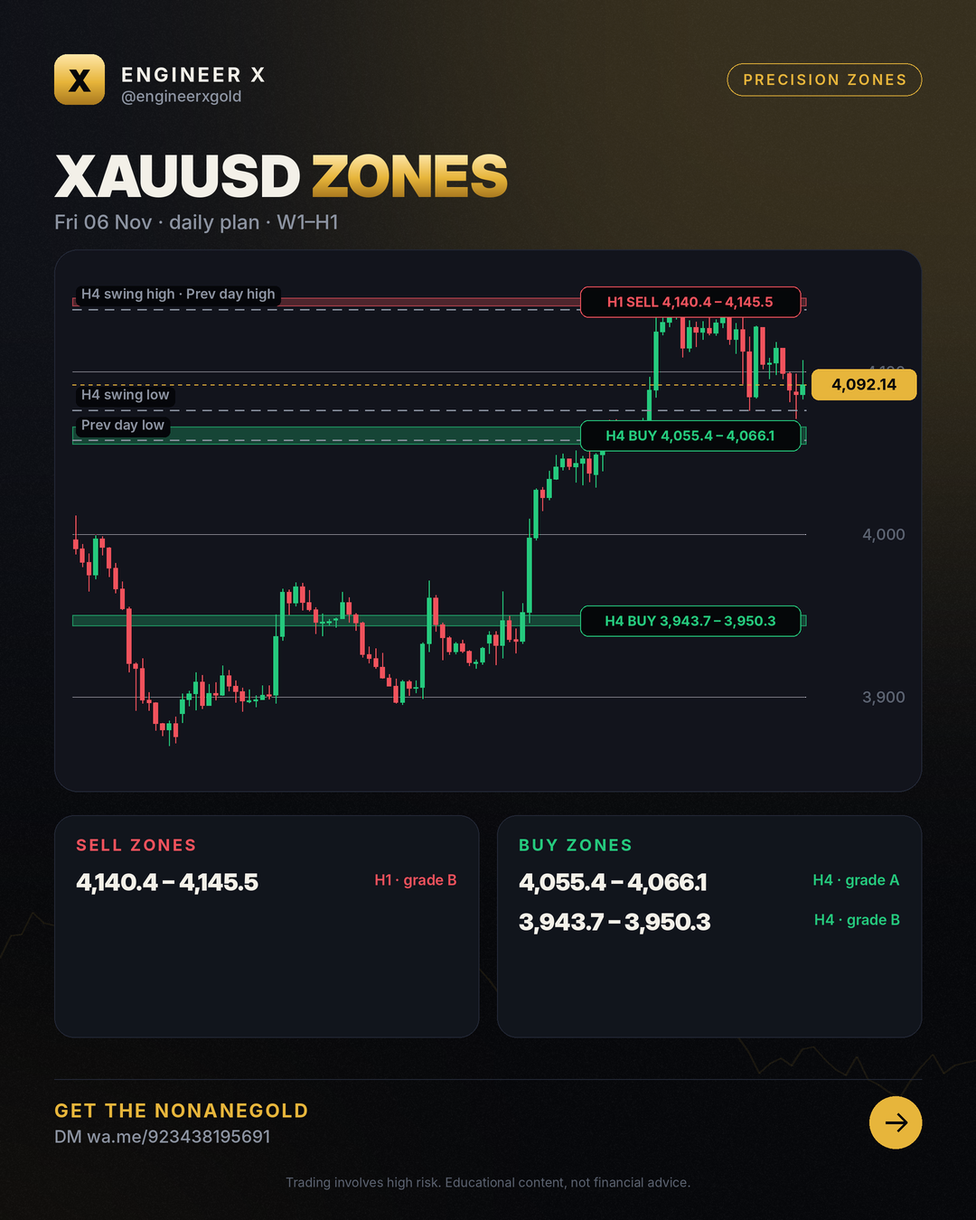
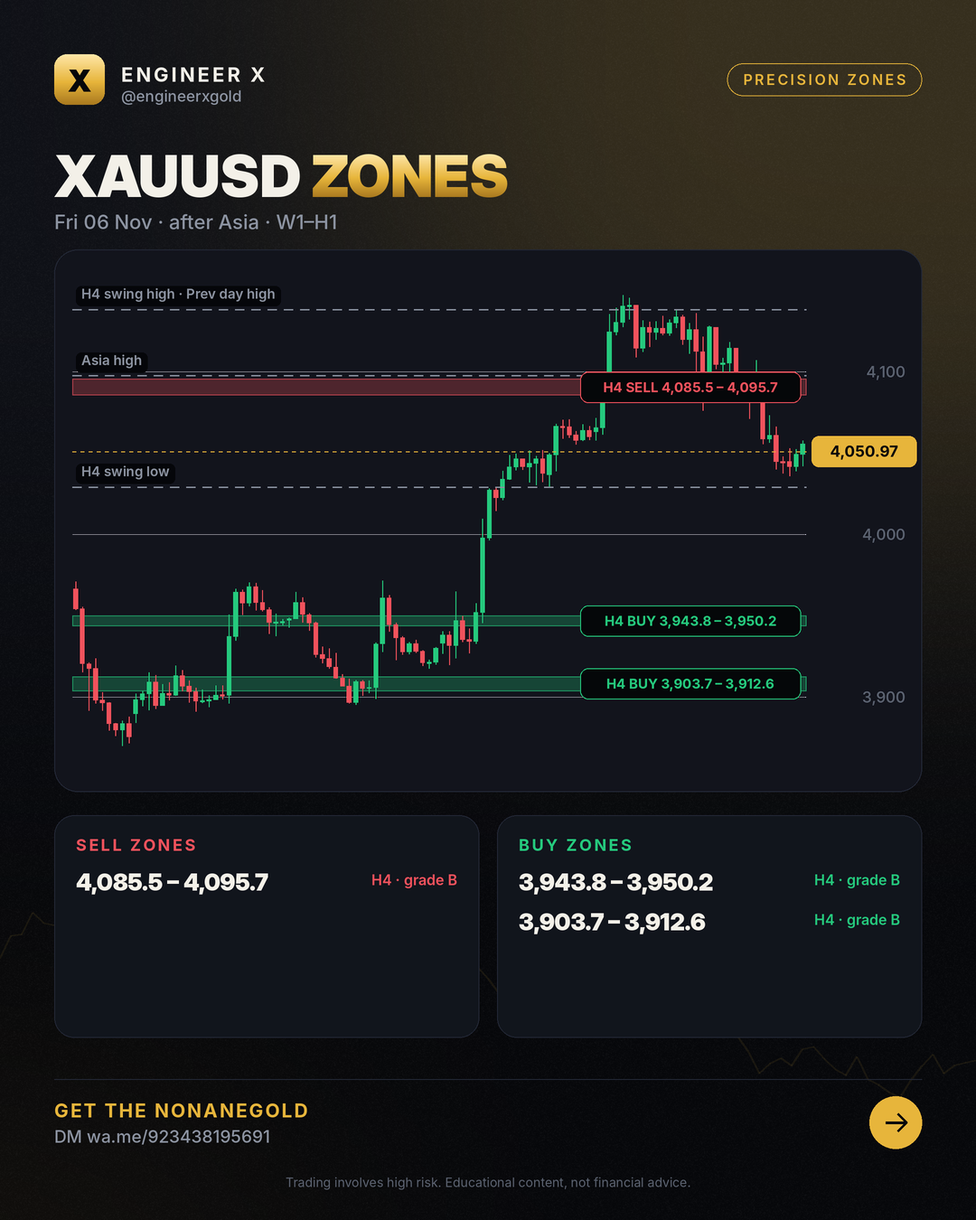
zones 2026-11-06 Fri 06 Nov · after Asia · W1–H1

diff --git a/zones/index.html b/zones/index.html
@@ -4,7 +4,7 @@
 <meta charset="utf-8">
 <meta name="viewport" content="width=device-width,initial-scale=1">
 <title>XAUUSD Zones Today – Buy &amp; Sell Zones (H4, H1) | Engineer X</title>
-<meta name="description" content="XAUUSD buy and sell zones for 2026-11-06: tested W1, D1, H4 and H1 zones with invalidation levels, updated after the Asian, London and New York sessions. Price 4,092.14.">
+<meta name="description" content="XAUUSD buy and sell zones for 2026-11-06: tested W1, D1, H4 and H1 zones with invalidation levels, updated after the Asian, London and New York sessions. Price 4,050.97.">
 <meta name="robots" content="index,follow,max-image-preview:large,max-snippet:-1,max-video-preview:-1">
 <meta name="author" content="Engr. M Ahmad Mehmood">
 <link rel="canonical" href="https://engineerxgold.github.io/zones/">
@@ -12,7 +12,7 @@
 <link rel="apple-touch-icon" href="../img/logo.png">
 <meta property="og:site_name" content="Engineer X">
 <meta property="og:title" content="XAUUSD Zones Today – Buy &amp; Sell Zones (H4, H1) | Engineer X">
-<meta property="og:description" content="XAUUSD buy and sell zones for 2026-11-06: tested W1, D1, H4 and H1 zones with invalidation levels, updated after the Asian, London and New York sessions. Price 4,092.14.">
+<meta property="og:description" content="XAUUSD buy and sell zones for 2026-11-06: tested W1, D1, H4 and H1 zones with invalidation levels, updated after the Asian, London and New York sessions. Price 4,050.97.">
 <meta property="og:type" content="website">
 <meta property="og:url" content="https://engineerxgold.github.io/zones/">
 <meta property="og:image" content="https://engineerxgold.github.io/zones/img/2026-11-06.png">
@@ -22,7 +22,7 @@
 <meta property="og:locale" content="en_US">
 <meta name="twitter:card" content="summary_large_image">
 <meta name="twitter:title" content="XAUUSD Zones Today – Buy &amp; Sell Zones (H4, H1) | Engineer X">
-<meta name="twitter:description" content="XAUUSD buy and sell zones for 2026-11-06: tested W1, D1, H4 and H1 zones with invalidation levels, updated after the Asian, London and New York sessions. Price 4,092.14.">
+<meta name="twitter:description" content="XAUUSD buy and sell zones for 2026-11-06: tested W1, D1, H4 and H1 zones with invalidation levels, updated after the Asian, London and New York sessions. Price 4,050.97.">
 <meta name="twitter:image" content="https://engineerxgold.github.io/zones/img/2026-11-06.png">
 <meta name="twitter:image:alt" content="XAUUSD Zones Today – Buy &amp; Sell Zones (H4, H1) | Engineer X">
 
@@ -101,7 +101,7 @@ footer .fl a{color:var(--muted);margin-right:16px}
 <div class="wrap">
 <nav><a class="logo" href="../"><b>X</b>Engineer X</a>
 <div class="links"><a href="../zones/">Daily Zones</a><a href="../blog/">Learn</a><a href="../ea/">Gold EA</a><a href="../about/">About</a><a class="cta" href="https://wa.me/923438195691">Get the EA</a></div></nav>
-<section class="hero"><span class="chip">Updated Fri 06 Nov · daily plan · W1–H1</span><h1>XAUUSD <span class="gold">precision zones</span></h1><p>XAUUSD buy and sell zones for 2026-11-06: tested W1, D1, H4 and H1 zones with invalidation levels, updated after the Asian, London and New York sessions. Price 4,092.14.</p></section><img src="img/2026-11-06.png" alt="Latest XAUUSD zone map" width="1080" height="1350"><section><h2>Current zones</h2><div style="overflow-x:auto"><table style="width:100%;border-collapse:collapse;font-size:15px"><tr><th align=left>Zone</th><th align=left>Price band</th><th>Grade</th><th align=left>Invalid</th><th align=left>Why</th></tr><tr><td>H1 sell</td><td><b>4,140.41 – 4,145.46</b></td><td>B</td><td>above 4,147.69</td><td>H1 supply: 1 small base candle (Wed 04 Nov 23:00 NY), then a strong move down (1.4x ATR). Untouched since. Wrong if price trades above 4147.69.; MSNR levels ins</td></tr><tr><td>H4 buy</td><td><b>4,055.41 – 4,066.11</b></td><td>A</td><td>below 4,053.18</td><td>H4 demand: 1 small base candle (Wed 04 Nov 13:00 NY), then a strong move up (1.6x ATR). Untouched since. Wrong if price trades below 4053.18.; MSNR levels insid</td></tr><tr><td>H4 buy</td><td><b>3,943.66 – 3,950.34</b></td><td>B</td><td>below 3,941.43</td><td>MSNR support level (fresh): 4H GAP 3947.00. Wrong if price trades below 3941.43.; Confluence score 2: MSNR + ICT</td></tr></table></div></section><section><h2>Honest scorecard</h2><div class="grid"><div class="card"><div class="n">251</div><p>zones published (30 days)</p></div><div class="card"><div class="n">135</div><p>held (moved 1 hourly ATR away)</p></div><div class="card"><div class="n">29</div><p>broke (traded beyond the invalidation)</p></div><div class="card"><div class="n">82%</div><p>hold rate of decided zones</p></div></div></section><div class="ctabox"><h3>🤖 Trade the zones with the NonaneGold</h3><p>Free signals group access + setup help Message us and we will help you set it up.</p><div class="btns"><a class="btn gold" href="https://wa.me/923438195691">Get the EA on Telegram</a><a class="btn ghost" href="../ea/">About the EA</a></div></div><section><h2>Archive</h2><div class="grid posts"><a class="card" href="2026-11-06/"><span class="date">2026-11-06</span><h3>XAUUSD zones 2026-11-06</h3></a><a class="card" href="2026-11-05/"><span class="date">2026-11-05</span><h3>XAUUSD zones 2026-11-05</h3></a><a class="card" href="2026-11-04/"><span class="date">2026-11-04</span><h3>XAUUSD zones 2026-11-04</h3></a><a class="card" href="2026-11-03/"><span class="date">2026-11-03</span><h3>XAUUSD zones 2026-11-03</h3></a><a class="card" href="2026-11-02/"><span class="date">2026-11-02</span><h3>XAUUSD zones 2026-11-02</h3></a><a class="card" href="2026-10-30/"><span class="date">2026-10-30</span><h3>XAUUSD zones 2026-10-30</h3></a><a class="card" href="2026-10-29/"><span class="date">2026-10-29</span><h3>XAUUSD zones 2026-10-29</h3></a><a class="card" href="2026-10-28/"><span class="date">2026-10-28</span><h3>XAUUSD zones 2026-10-28</h3></a><a class="card" href="2026-10-27/"><span class="date">2026-10-27</span><h3>XAUUSD zones 2026-10-27</h3></a><a class="card" href="2026-10-26/"><span class="date">2026-10-26</span><h3>XAUUSD zones 2026-10-26</h3></a><a class="card" href="2026-10-23/"><span class="date">2026-10-23</span><h3>XAUUSD zones 2026-10-23</h3></a><a class="card" href="2026-10-22/"><span class="date">2026-10-22</span><h3>XAUUSD zones 2026-10-22</h3></a><a class="card" href="2026-10-21/"><span class="date">2026-10-21</span><h3>XAUUSD zones 2026-10-21</h3></a><a class="card" href="2026-10-20/"><span class="date">2026-10-20</span><h3>XAUUSD zones 2026-10-20</h3></a><a class="card" href="2026-10-19/"><span class="date">2026-10-19</span><h3>XAUUSD zones 2026-10-19</h3></a><a class="card" href="2026-10-16/"><span class="date">2026-10-16</span><h3>XAUUSD zones 2026-10-16</h3></a><a class="card" href="2026-10-15/"><span class="date">2026-10-15</span><h3>XAUUSD zones 2026-10-15</h3></a><a class="card" href="2026-10-14/"><span class="date">2026-10-14</span><h3>XAUUSD zones 2026-10-14</h3></a><a class="card" href="2026-10-13/"><span class="date">2026-10-13</span><h3>XAUUSD zones 2026-10-13</h3></a></div></section>
+<section class="hero"><span class="chip">Updated Fri 06 Nov · after Asia · W1–H1</span><h1>XAUUSD <span class="gold">precision zones</span></h1><p>XAUUSD buy and sell zones for 2026-11-06: tested W1, D1, H4 and H1 zones with invalidation levels, updated after the Asian, London and New York sessions. Price 4,050.97.</p></section><img src="img/2026-11-06.png" alt="Latest XAUUSD zone map" width="1080" height="1350"><section><h2>Current zones</h2><div style="overflow-x:auto"><table style="width:100%;border-collapse:collapse;font-size:15px"><tr><th align=left>Zone</th><th align=left>Price band</th><th>Grade</th><th align=left>Invalid</th><th align=left>Why</th></tr><tr><td>H4 sell</td><td><b>4,085.52 – 4,095.70</b></td><td>B</td><td>above 4,097.80</td><td>MSNR resistance levels (fresh): 4H GAP 4088.67, 1H A 4092.14, 30m GAP 4092.14, 15m A 4092.55. Wrong if price trades above 4097.80.; Confluence score 3: MSNR + I</td></tr><tr><td>H4 buy</td><td><b>3,943.85 – 3,950.15</b></td><td>B</td><td>below 3,941.75</td><td>MSNR support level (fresh): 4H GAP 3947.00. Wrong if price trades below 3941.75.; Confluence score 2: MSNR + ICT</td></tr><tr><td>H4 buy</td><td><b>3,903.71 – 3,912.64</b></td><td>B</td><td>below 3,901.61</td><td>MSNR support levels (fresh): 4H V 3909.49, 15m OCL 3906.86. Wrong if price trades below 3901.61.; Confluence score 2: MSNR + SMC</td></tr></table></div></section><section><h2>Honest scorecard</h2><div class="grid"><div class="card"><div class="n">253</div><p>zones published (30 days)</p></div><div class="card"><div class="n">139</div><p>held (moved 1 hourly ATR away)</p></div><div class="card"><div class="n">29</div><p>broke (traded beyond the invalidation)</p></div><div class="card"><div class="n">83%</div><p>hold rate of decided zones</p></div></div></section><div class="ctabox"><h3>🤖 Trade the zones with the NonaneGold</h3><p>Free signals group access + setup help Message us and we will help you set it up.</p><div class="btns"><a class="btn gold" href="https://wa.me/923438195691">Get the EA on Telegram</a><a class="btn ghost" href="../ea/">About the EA</a></div></div><section><h2>Archive</h2><div class="grid posts"><a class="card" href="2026-11-06/"><span class="date">2026-11-06</span><h3>XAUUSD zones 2026-11-06</h3></a><a class="card" href="2026-11-05/"><span class="date">2026-11-05</span><h3>XAUUSD zones 2026-11-05</h3></a><a class="card" href="2026-11-04/"><span class="date">2026-11-04</span><h3>XAUUSD zones 2026-11-04</h3></a><a class="card" href="2026-11-03/"><span class="date">2026-11-03</span><h3>XAUUSD zones 2026-11-03</h3></a><a class="card" href="2026-11-02/"><span class="date">2026-11-02</span><h3>XAUUSD zones 2026-11-02</h3></a><a class="card" href="2026-10-30/"><span class="date">2026-10-30</span><h3>XAUUSD zones 2026-10-30</h3></a><a class="card" href="2026-10-29/"><span class="date">2026-10-29</span><h3>XAUUSD zones 2026-10-29</h3></a><a class="card" href="2026-10-28/"><span class="date">2026-10-28</span><h3>XAUUSD zones 2026-10-28</h3></a><a class="card" href="2026-10-27/"><span class="date">2026-10-27</span><h3>XAUUSD zones 2026-10-27</h3></a><a class="card" href="2026-10-26/"><span class="date">2026-10-26</span><h3>XAUUSD zones 2026-10-26</h3></a><a class="card" href="2026-10-23/"><span class="date">2026-10-23</span><h3>XAUUSD zones 2026-10-23</h3></a><a class="card" href="2026-10-22/"><span class="date">2026-10-22</span><h3>XAUUSD zones 2026-10-22</h3></a><a class="card" href="2026-10-21/"><span class="date">2026-10-21</span><h3>XAUUSD zones 2026-10-21</h3></a><a class="card" href="2026-10-20/"><span class="date">2026-10-20</span><h3>XAUUSD zones 2026-10-20</h3></a><a class="card" href="2026-10-19/"><span class="date">2026-10-19</span><h3>XAUUSD zones 2026-10-19</h3></a><a class="card" href="2026-10-16/"><span class="date">2026-10-16</span><h3>XAUUSD zones 2026-10-16</h3></a><a class="card" href="2026-10-15/"><span class="date">2026-10-15</span><h3>XAUUSD zones 2026-10-15</h3></a><a class="card" href="2026-10-14/"><span class="date">2026-10-14</span><h3>XAUUSD zones 2026-10-14</h3></a><a class="card" href="2026-10-13/"><span class="date">2026-10-13</span><h3>XAUUSD zones 2026-10-13</h3></a></div></section>
 <footer>
 <div class="warn"><b>Risk warning:</b> Trading gold, forex and CFDs carries a high risk of losing money and is not suitable for everyone. Past results do not guarantee future results. Everything on this site is educational and not financial advice. We are an introducing partner of our broker and may earn a commission on accounts opened through our link.</div>
 <p class="fl" style="margin-top:18px"><a href="../about/">About &amp; methodology</a><a href="../privacy.html">Privacy</a><a href="../terms.html">Terms &amp; risk disclosure</a><a href="../feed.xml">RSS</a><a href="https://t.me/engineerxgold">Telegram</a></p>

diff --git a/zones/2026-11-06/index.html b/zones/2026-11-06/index.html
@@ -4,7 +4,7 @@
 <meta charset="utf-8">
 <meta name="viewport" content="width=device-width,initial-scale=1">
 <title>Gold Forecast – 06 Nov 2026 (W1–H1)</title>
-<meta name="description" content="XAUUSD buy and sell zones for 2026-11-06: tested W1, D1, H4 and H1 zones with invalidation levels, updated after the Asian, London and New York sessions. Price 4,092.14.">
+<meta name="description" content="XAUUSD buy and sell zones for 2026-11-06: tested W1, D1, H4 and H1 zones with invalidation levels, updated after the Asian, London and New York sessions. Price 4,050.97.">
 <meta name="robots" content="index,follow,max-image-preview:large,max-snippet:-1,max-video-preview:-1">
 <meta name="author" content="Engr. M Ahmad Mehmood">
 <link rel="canonical" href="https://engineerxgold.github.io/zones/2026-11-06/">
@@ -12,7 +12,7 @@
 <link rel="apple-touch-icon" href="../../img/logo.png">
 <meta property="og:site_name" content="Engineer X">
 <meta property="og:title" content="Gold Forecast – 06 Nov 2026 (W1–H1)">
-<meta property="og:description" content="XAUUSD buy and sell zones for 2026-11-06: tested W1, D1, H4 and H1 zones with invalidation levels, updated after the Asian, London and New York sessions. Price 4,092.14.">
+<meta property="og:description" content="XAUUSD buy and sell zones for 2026-11-06: tested W1, D1, H4 and H1 zones with invalidation levels, updated after the Asian, London and New York sessions. Price 4,050.97.">
 <meta property="og:type" content="article">
 <meta property="og:url" content="https://engineerxgold.github.io/zones/2026-11-06/">
 <meta property="og:image" content="https://engineerxgold.github.io/zones/img/2026-11-06.png">
@@ -22,7 +22,7 @@
 <meta property="og:locale" content="en_US">
 <meta name="twitter:card" content="summary_large_image">
 <meta name="twitter:title" content="Gold Forecast – 06 Nov 2026 (W1–H1)">
-<meta name="twitter:description" content="XAUUSD buy and sell zones for 2026-11-06: tested W1, D1, H4 and H1 zones with invalidation levels, updated after the Asian, London and New York sessions. Price 4,092.14.">
+<meta name="twitter:description" content="XAUUSD buy and sell zones for 2026-11-06: tested W1, D1, H4 and H1 zones with invalidation levels, updated after the Asian, London and New York sessions. Price 4,050.97.">
 <meta name="twitter:image" content="https://engineerxgold.github.io/zones/img/2026-11-06.png">
 <meta name="twitter:image:alt" content="Gold Forecast – 06 Nov 2026 (W1–H1)">
 
@@ -32,7 +32,7 @@
 <link rel="preconnect" href="https://fonts.googleapis.com">
 <link rel="preconnect" href="https://fonts.gstatic.com" crossorigin>
 <link href="https://fonts.googleapis.com/css2?family=Inter:wght@400;500;600;800;900&display=swap" rel="stylesheet">
-<script type="application/ld+json">{"@context": "https://schema.org", "@type": "Organization", "@id": "https://engineerxgold.github.io/#organization", "name": "Engineer X", "url": "https://engineerxgold.github.io/", "logo": {"@type": "ImageObject", "url": "https://engineerxgold.github.io/img/logo.png", "width": 512, "height": 512}, "sameAs": ["https://t.me/engineerxgold"]}</script><script type="application/ld+json">{"@context": "https://schema.org", "@type": "Article", "headline": "Gold Forecast – 06 Nov 2026 (W1–H1)", "datePublished": "2026-11-06T08:00:00+05:00", "dateModified": "2026-11-06T06:04:19+05:00", "author": {"@type": "Person", "@id": "https://engineerxgold.github.io/about/#author", "name": "Engr. M Ahmad Mehmood", "url": "https://engineerxgold.github.io/about/", "jobTitle": "MQL5 Expert Advisor developer and gold market analyst", "worksFor": {"@id": "https://engineerxgold.github.io/#organization"}}, "publisher": {"@id": "https://engineerxgold.github.io/#organization"}, "image": "https://engineerxgold.github.io/zones/img/2026-11-06.png", "mainEntityOfPage": "https://engineerxgold.github.io/zones/2026-11-06/"}</script>
+<script type="application/ld+json">{"@context": "https://schema.org", "@type": "Organization", "@id": "https://engineerxgold.github.io/#organization", "name": "Engineer X", "url": "https://engineerxgold.github.io/", "logo": {"@type": "ImageObject", "url": "https://engineerxgold.github.io/img/logo.png", "width": 512, "height": 512}, "sameAs": ["https://t.me/engineerxgold"]}</script><script type="application/ld+json">{"@context": "https://schema.org", "@type": "Article", "headline": "Gold Forecast – 06 Nov 2026 (W1–H1)", "datePublished": "2026-11-06T08:00:00+05:00", "dateModified": "2026-11-06T13:08:35+05:00", "author": {"@type": "Person", "@id": "https://engineerxgold.github.io/about/#author", "name": "Engr. M Ahmad Mehmood", "url": "https://engineerxgold.github.io/about/", "jobTitle": "MQL5 Expert Advisor developer and gold market analyst", "worksFor": {"@id": "https://engineerxgold.github.io/#organization"}}, "publisher": {"@id": "https://engineerxgold.github.io/#organization"}, "image": "https://engineerxgold.github.io/zones/img/2026-11-06.png", "mainEntityOfPage": "https://engineerxgold.github.io/zones/2026-11-06/"}</script>
 
 <style>
 :root{--gold:#E7B53B;--gold-hi:#FFE7A8;--bg:#07080B;--bg2:#0E1016;--panel:#12151D;--line:#232836;--green:#25C97D;--red:#F0525C;--text:#F3F0E8;--muted:#8C93A1}
@@ -101,7 +101,7 @@ footer .fl a{color:var(--muted);margin-right:16px}
 <div class="wrap">
 <nav><a class="logo" href="../../"><b>X</b>Engineer X</a>
 <div class="links"><a href="../../zones/">Daily Zones</a><a href="../../blog/">Learn</a><a href="../../ea/">Gold EA</a><a href="../../about/">About</a><a class="cta" href="https://wa.me/923438195691">Get the EA</a></div></nav>
-<article><p class="crumbs"><a href="../../">Home</a> › <a href="../">Zones</a> › 2026-11-06</p><h1>Gold Forecast – 06 Nov 2026 (W1–H1)</h1><p class="byline">Fri 06 Nov · daily plan · W1–H1 · by Engr. M Ahmad Mehmood</p><img src="../img/2026-11-06.png" alt="XAUUSD zone map 2026-11-06" width="1080" height="1350" loading="eager"><h2>Zones</h2><div style="overflow-x:auto"><table style="width:100%;border-collapse:collapse;font-size:15px"><tr><th align=left>Zone</th><th align=left>Price band</th><th>Grade</th><th align=left>Invalid</th><th align=left>Why</th></tr><tr><td>H1 sell</td><td><b>4,140.41 – 4,145.46</b></td><td>B</td><td>above 4,147.69</td><td>H1 supply: 1 small base candle (Wed 04 Nov 23:00 NY), then a strong move down (1.4x ATR). Untouched since. Wrong if price trades above 4147.69.; MSNR levels ins</td></tr><tr><td>H4 buy</td><td><b>4,055.41 – 4,066.11</b></td><td>A</td><td>below 4,053.18</td><td>H4 demand: 1 small base candle (Wed 04 Nov 13:00 NY), then a strong move up (1.6x ATR). Untouched since. Wrong if price trades below 4053.18.; MSNR levels insid</td></tr><tr><td>H4 buy</td><td><b>3,943.66 – 3,950.34</b></td><td>B</td><td>below 3,941.43</td><td>MSNR support level (fresh): 4H GAP 3947.00. Wrong if price trades below 3941.43.; Confluence score 2: MSNR + ICT</td></tr></table></div><h2>How to read this map</h2><p>Bands are where price is expected to react; they are not entries. Trading beyond the invalidation price ends the zone; each zone counts once (first touch). Highs and lows listed as liquidity are targets: on 10 years of gold price ran through them more often than through random levels.</p><div class="ctabox"><h3>🤖 Trade the zones with the NonaneGold</h3><p>Free signals group access + setup help Message us and we will help you set it up.</p><div class="btns"><a class="btn gold" href="https://wa.me/923438195691">Get the EA on Telegram</a><a class="btn ghost" href="../../ea/">About the EA</a></div></div></article>
+<article><p class="crumbs"><a href="../../">Home</a> › <a href="../">Zones</a> › 2026-11-06</p><h1>Gold Forecast – 06 Nov 2026 (W1–H1)</h1><p class="byline">Fri 06 Nov · after Asia · W1–H1 · by Engr. M Ahmad Mehmood</p><img src="../img/2026-11-06.png" alt="XAUUSD zone map 2026-11-06" width="1080" height="1350" loading="eager"><h2>Zones</h2><div style="overflow-x:auto"><table style="width:100%;border-collapse:collapse;font-size:15px"><tr><th align=left>Zone</th><th align=left>Price band</th><th>Grade</th><th align=left>Invalid</th><th align=left>Why</th></tr><tr><td>H4 sell</td><td><b>4,085.52 – 4,095.70</b></td><td>B</td><td>above 4,097.80</td><td>MSNR resistance levels (fresh): 4H GAP 4088.67, 1H A 4092.14, 30m GAP 4092.14, 15m A 4092.55. Wrong if price trades above 4097.80.; Confluence score 3: MSNR + I</td></tr><tr><td>H4 buy</td><td><b>3,943.85 – 3,950.15</b></td><td>B</td><td>below 3,941.75</td><td>MSNR support level (fresh): 4H GAP 3947.00. Wrong if price trades below 3941.75.; Confluence score 2: MSNR + ICT</td></tr><tr><td>H4 buy</td><td><b>3,903.71 – 3,912.64</b></td><td>B</td><td>below 3,901.61</td><td>MSNR support levels (fresh): 4H V 3909.49, 15m OCL 3906.86. Wrong if price trades below 3901.61.; Confluence score 2: MSNR + SMC</td></tr></table></div><h2>How to read this map</h2><p>Bands are where price is expected to react; they are not entries. Trading beyond the invalidation price ends the zone; each zone counts once (first touch). Highs and lows listed as liquidity are targets: on 10 years of gold price ran through them more often than through random levels.</p><div class="ctabox"><h3>🤖 Trade the zones with the NonaneGold</h3><p>Free signals group access + setup help Message us and we will help you set it up.</p><div class="btns"><a class="btn gold" href="https://wa.me/923438195691">Get the EA on Telegram</a><a class="btn ghost" href="../../ea/">About the EA</a></div></div></article>
 <footer>
 <div class="warn"><b>Risk warning:</b> Trading gold, forex and CFDs carries a high risk of losing money and is not suitable for everyone. Past results do not guarantee future results. Everything on this site is educational and not financial advice. We are an introducing partner of our broker and may earn a commission on accounts opened through our link.</div>
 <p class="fl" style="margin-top:18px"><a href="../../about/">About &amp; methodology</a><a href="../../privacy.html">Privacy</a><a href="../../terms.html">Terms &amp; risk disclosure</a><a href="../../feed.xml">RSS</a><a href="https://t.me/engineerxgold">Telegram</a></p>

diff --git a/index.html b/index.html
@@ -101,7 +101,7 @@ footer .fl a{color:var(--muted);margin-right:16px}
 <div class="wrap">
 <nav><a class="logo" href="./"><b>X</b>Engineer X</a>
 <div class="links"><a href="./zones/">Daily Zones</a><a href="./blog/">Learn</a><a href="./ea/">Gold EA</a><a href="./about/">About</a><a class="cta" href="https://wa.me/923438195691">Get the EA</a></div></nav>
-<section class="hero"><span class="chip">XAUUSD · W1–H1 · every session</span><h1>Gold <span class="gold">precision zones</span>, updated after every session</h1><p>Tested buy and sell zones with clear invalidation, a scorecard of every result, and the NonaneGold for traders who want it automated.</p><div class="btns"><a class="btn gold" href="zones/">See today's zones</a><a class="btn ghost" href="https://wa.me/923438195691">Get the EA</a></div></section><section><h2>Latest map Fri 06 Nov · daily plan · W1–H1</h2><img src="zones/img/2026-11-06.png" alt="Latest XAUUSD zones" width="1080" height="1350"></section><div class="ctabox"><h3>🤖 Trade the zones with the NonaneGold</h3><p>Free signals group access + setup help Message us and we will help you set it up.</p><div class="btns"><a class="btn gold" href="https://wa.me/923438195691">Get the EA on Telegram</a><a class="btn ghost" href="ea/">About the EA</a></div></div><section><h2>Learn</h2><div class="grid posts"><a class="card" href="blog/gold-trading-price-h4-uptrend-zones-liquidity-maps/"><span class="date">2026-11-05</span><h3>Gold Trading Price: H4 Uptrend Zones &amp; Liquidity Maps</h3></a><a class="card" href="blog/gold-supply-and-demand-zones-h4-h1-map-analysis/"><span class="date">2026-11-04</span><h3>Gold Supply and Demand Zones: H4 &amp; H1 Map Analysis</h3></a><a class="card" href="blog/gold-support-resistance-today-s-map-key-zones/"><span class="date">2026-11-03</span><h3>Gold Support Resistance: Today&#x27;s Map &amp; Key Zones</h3></a><a class="card" href="blog/gold-supply-and-demand-zones-h4-setup-levels/"><span class="date">2026-11-01</span><h3>Gold Supply and Demand Zones: H4 Setup &amp; Levels</h3></a><a class="card" href="blog/gold-supply-and-demand-zones-h4-h1-trading-map-2026-10-31/"><span class="date">2026-10-31</span><h3>Gold Supply and Demand Zones: H4 &amp; H1 Trading Map</h3></a><a class="card" href="blog/gold-price-today-live-technical-levels-zone-map/"><span class="date">2026-10-30</span><h3>Gold Price Today: Live Technical Levels &amp; Zone Map</h3></a></div></section><section><h2>FAQ</h2><details><summary>What is a precision zone?</summary><p>A point of interest from a trading book (OTE 0.705, balanced price range, weekly close level, daily order block) that held better than random levels on 10 years of gold. Each zone has an invalidation price.</p></details><details><summary>How often are the zones updated?</summary><p>A daily plan at the Asian open, then after the Asian, London and New York sessions.</p></details><details><summary>Are these trade signals?</summary><p>No. Zones are areas to watch. Wait for your own confirmation and manage risk.</p></details><details><summary>How do I get the Gold EA?</summary><p>Message us on Telegram or WhatsApp; we answer and help with the setup.</p></details></section>
+<section class="hero"><span class="chip">XAUUSD · W1–H1 · every session</span><h1>Gold <span class="gold">precision zones</span>, updated after every session</h1><p>Tested buy and sell zones with clear invalidation, a scorecard of every result, and the NonaneGold for traders who want it automated.</p><div class="btns"><a class="btn gold" href="zones/">See today's zones</a><a class="btn ghost" href="https://wa.me/923438195691">Get the EA</a></div></section><section><h2>Latest map Fri 06 Nov · after Asia · W1–H1</h2><img src="zones/img/2026-11-06.png" alt="Latest XAUUSD zones" width="1080" height="1350"></section><div class="ctabox"><h3>🤖 Trade the zones with the NonaneGold</h3><p>Free signals group access + setup help Message us and we will help you set it up.</p><div class="btns"><a class="btn gold" href="https://wa.me/923438195691">Get the EA on Telegram</a><a class="btn ghost" href="ea/">About the EA</a></div></div><section><h2>Learn</h2><div class="grid posts"><a class="card" href="blog/gold-trading-price-h4-uptrend-zones-liquidity-maps/"><span class="date">2026-11-05</span><h3>Gold Trading Price: H4 Uptrend Zones &amp; Liquidity Maps</h3></a><a class="card" href="blog/gold-supply-and-demand-zones-h4-h1-map-analysis/"><span class="date">2026-11-04</span><h3>Gold Supply and Demand Zones: H4 &amp; H1 Map Analysis</h3></a><a class="card" href="blog/gold-support-resistance-today-s-map-key-zones/"><span class="date">2026-11-03</span><h3>Gold Support Resistance: Today&#x27;s Map &amp; Key Zones</h3></a><a class="card" href="blog/gold-supply-and-demand-zones-h4-setup-levels/"><span class="date">2026-11-01</span><h3>Gold Supply and Demand Zones: H4 Setup &amp; Levels</h3></a><a class="card" href="blog/gold-supply-and-demand-zones-h4-h1-trading-map-2026-10-31/"><span class="date">2026-10-31</span><h3>Gold Supply and Demand Zones: H4 &amp; H1 Trading Map</h3></a><a class="card" href="blog/gold-price-today-live-technical-levels-zone-map/"><span class="date">2026-10-30</span><h3>Gold Price Today: Live Technical Levels &amp; Zone Map</h3></a></div></section><section><h2>FAQ</h2><details><summary>What is a precision zone?</summary><p>A point of interest from a trading book (OTE 0.705, balanced price range, weekly close level, daily order block) that held better than random levels on 10 years of gold. Each zone has an invalidation price.</p></details><details><summary>How often are the zones updated?</summary><p>A daily plan at the Asian open, then after the Asian, London and New York sessions.</p></details><details><summary>Are these trade signals?</summary><p>No. Zones are areas to watch. Wait for your own confirmation and manage risk.</p></details><details><summary>How do I get the Gold EA?</summary><p>Message us on Telegram or WhatsApp; we answer and help with the setup.</p></details></section>
 <footer>
 <div class="warn"><b>Risk warning:</b> Trading gold, forex and CFDs carries a high risk of losing money and is not suitable for everyone. Past results do not guarantee future results. Everything on this site is educational and not financial advice. We are an introducing partner of our broker and may earn a commission on accounts opened through our link.</div>
 <p class="fl" style="margin-top:18px"><a href="./about/">About &amp; methodology</a><a href="./privacy.html">Privacy</a><a href="./terms.html">Terms &amp; risk disclosure</a><a href="./feed.xml">RSS</a><a href="https://t.me/engineerxgold">Telegram</a></p>
